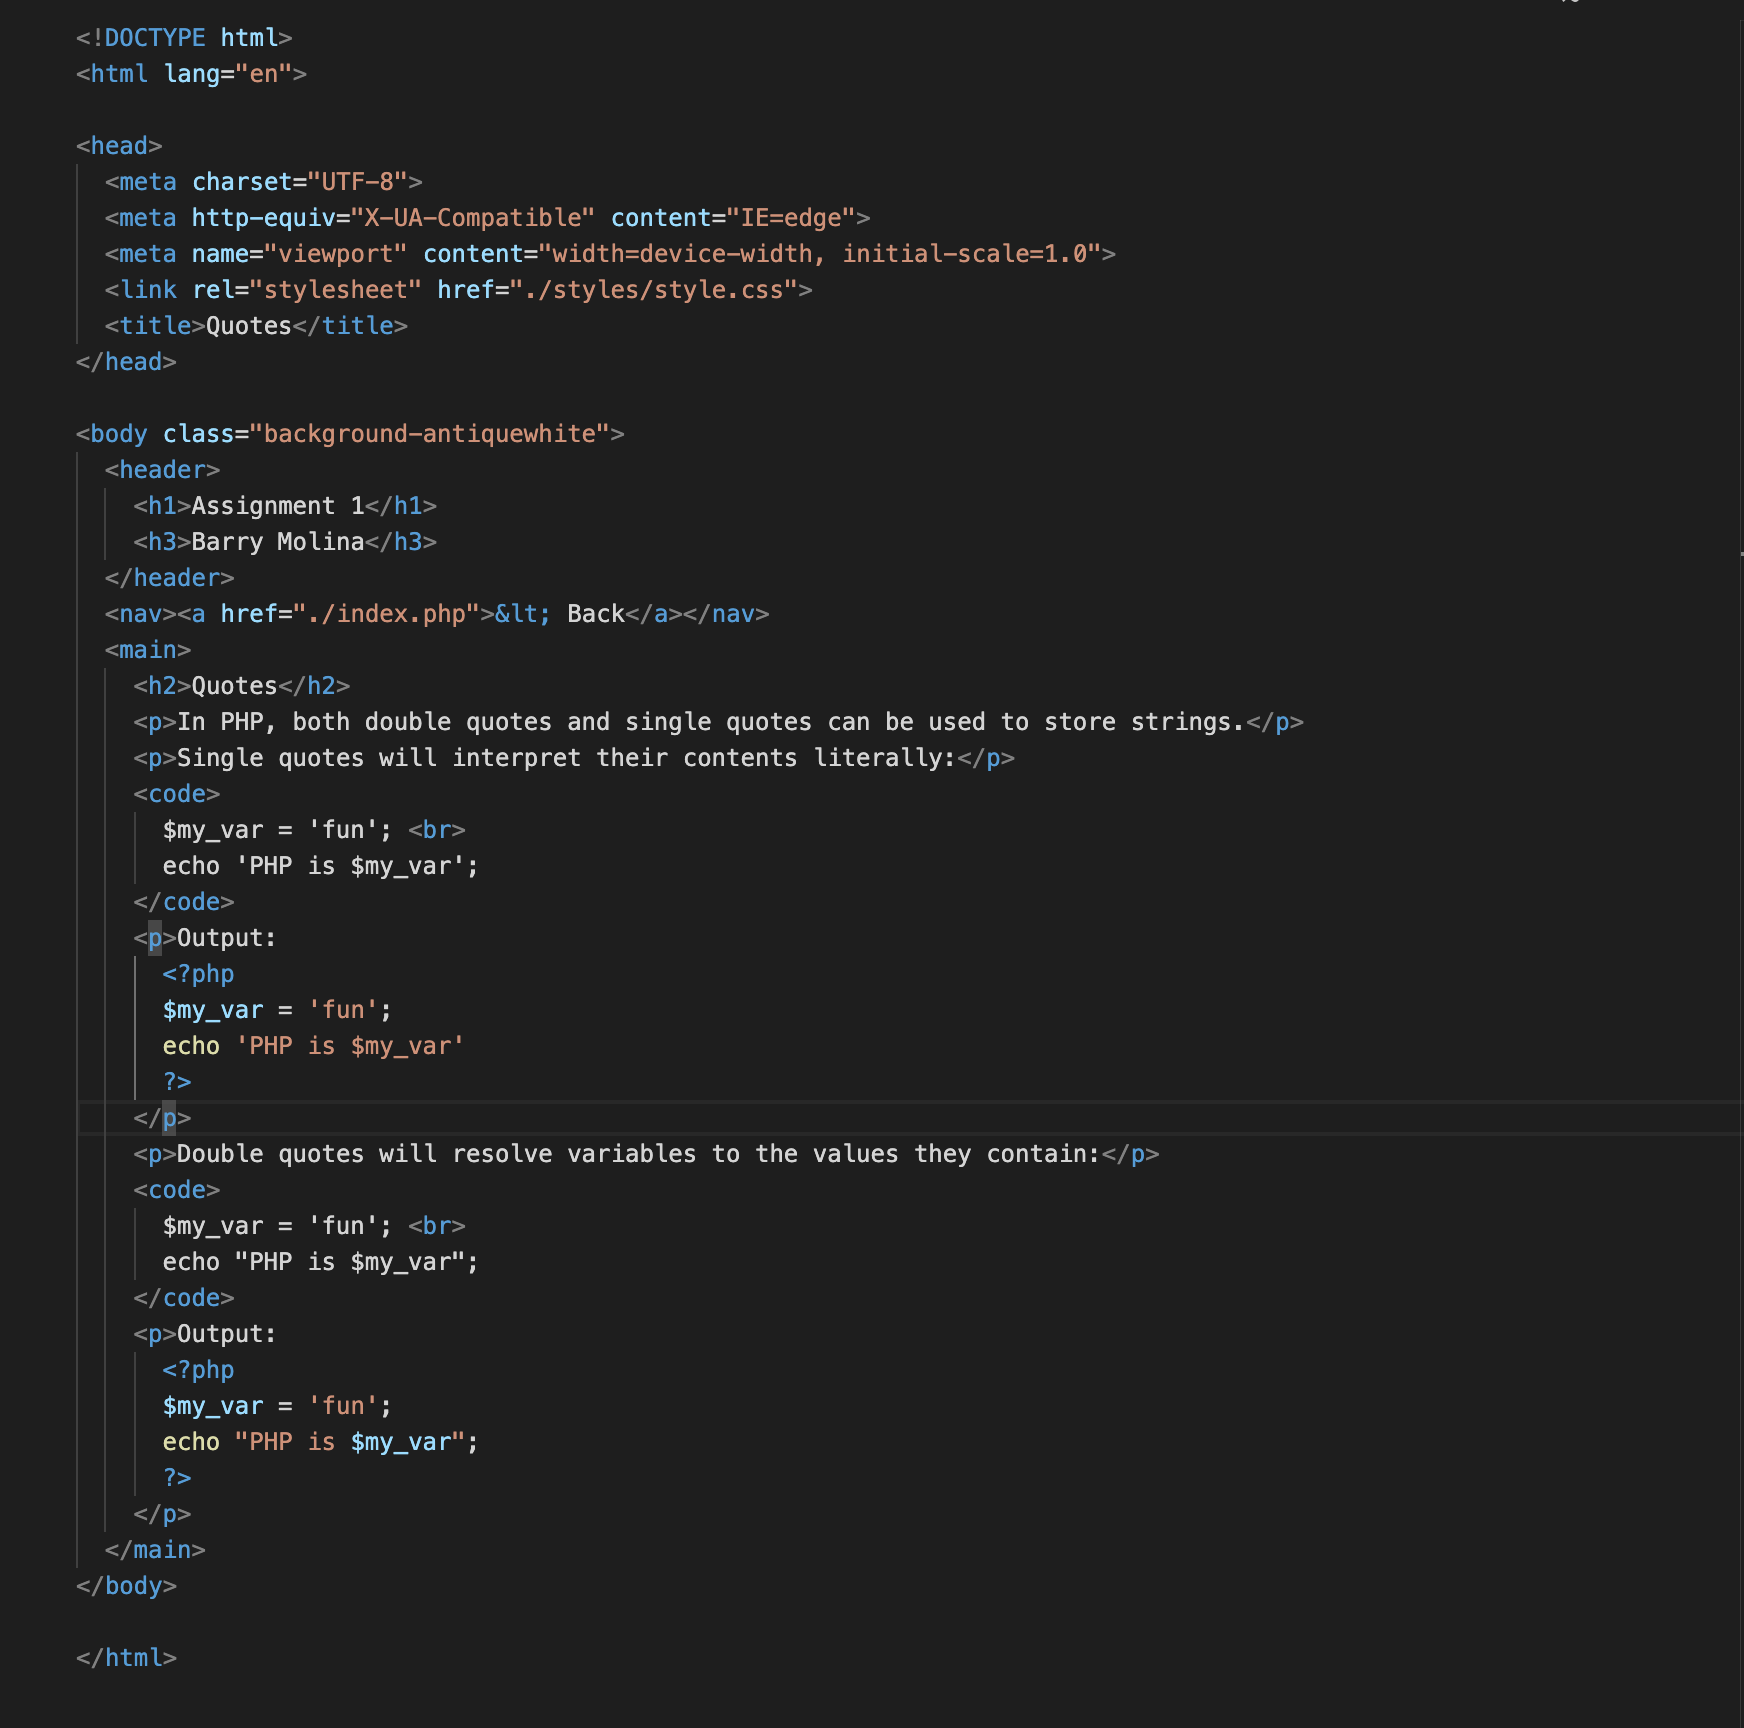
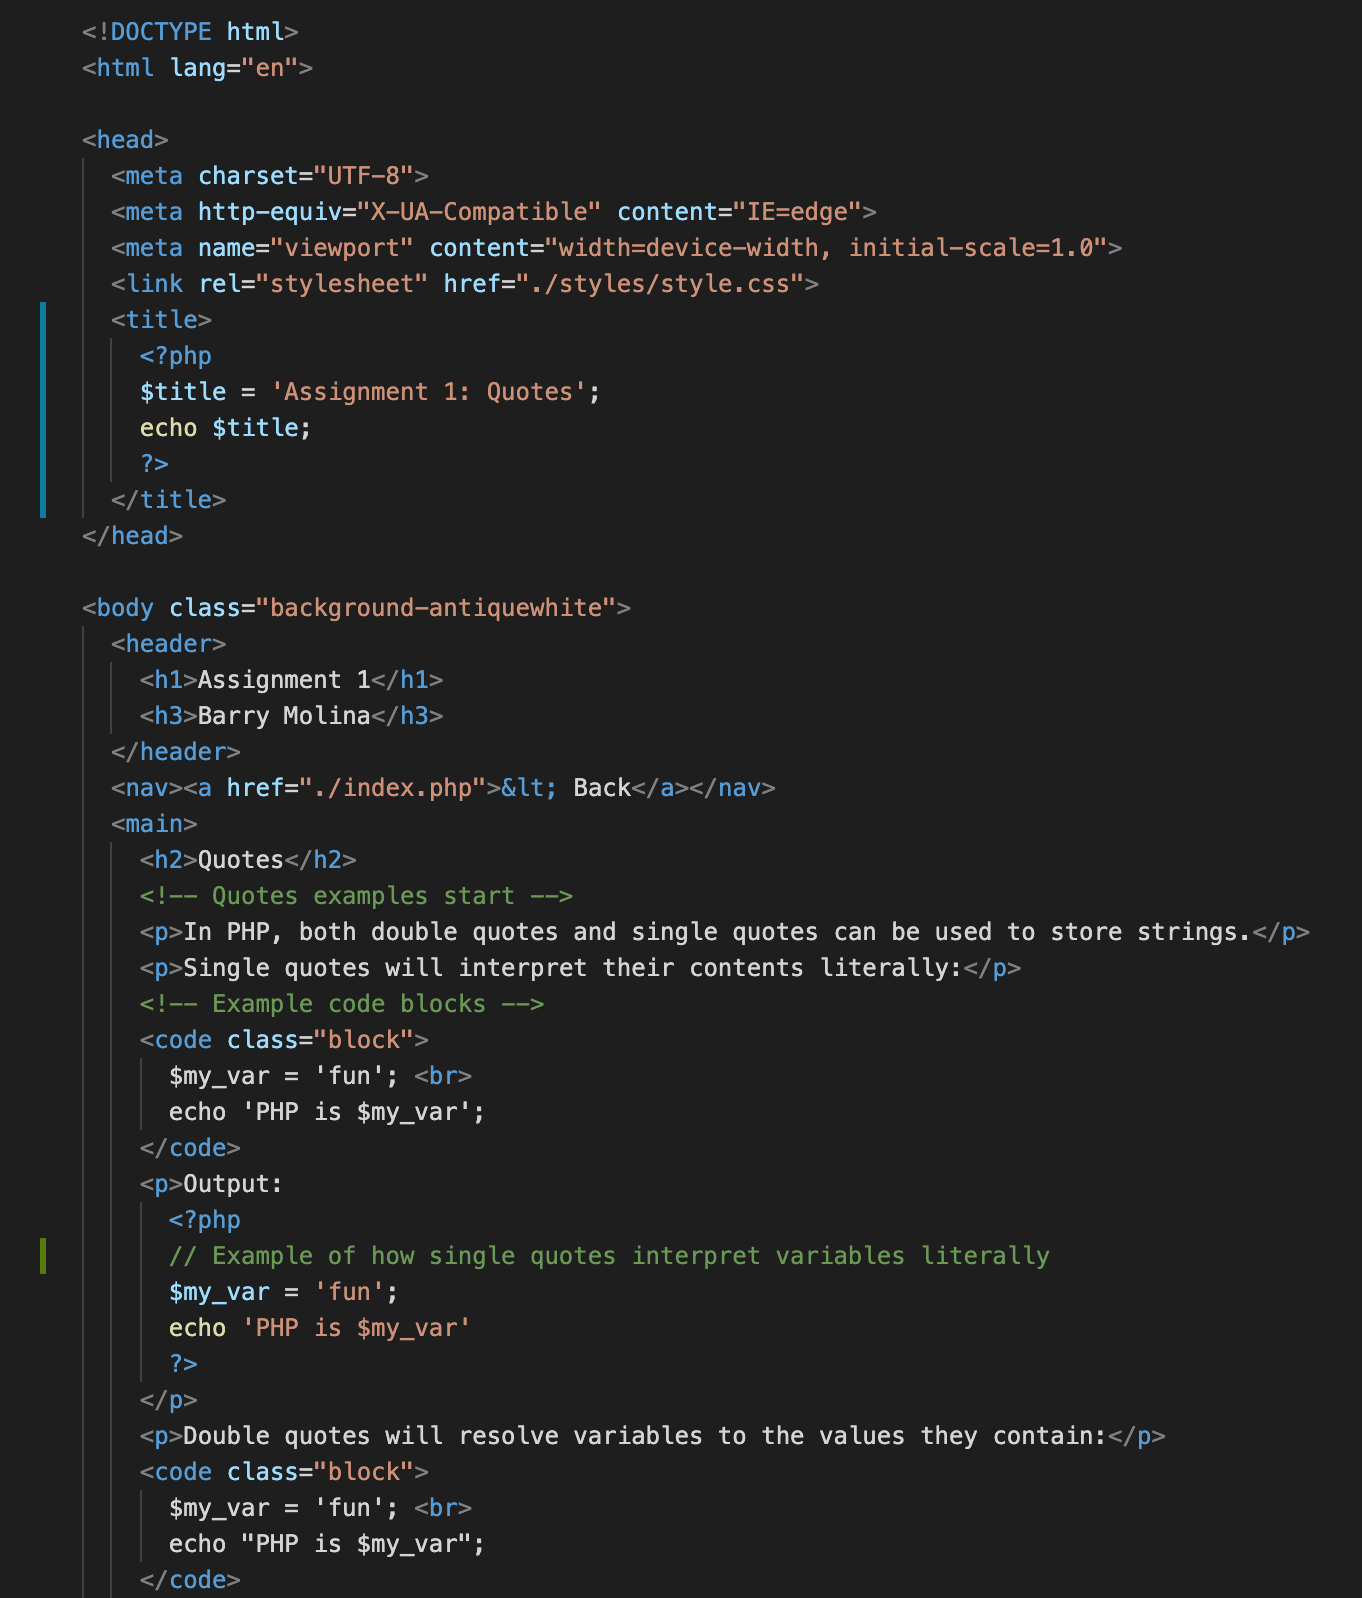
finished

diff --git a/assignment1/conditions.php b/assignment1/conditions.php
@@ -6,7 +6,12 @@
 	<meta http-equiv="X-UA-Compatible" content="IE=edge">
 	<meta name="viewport" content="width=device-width, initial-scale=1.0">
 	<link rel="stylesheet" href="./styles/style.css">
-	<title>Conditions</title>
+	<title>
+		<?php
+		$title = 'Assignment 1: Conditions';
+		echo $title;
+		?>
+	</title>
 </head>
 
 <body class="background-antiquewhite">
@@ -17,21 +22,27 @@
 	<nav><a href="./index.php">&lt; Back</a></nav>
 	<main>
 		<h2>Conditions</h2>
-		<p>Conditons are how logic is expressed in PHP. They make use of logical operators to create expressions whose computed value determines whether or not a section of code is run.</p>
+		<p>Conditons are how logic is expressed in PHP. They make use of logical operators
+			to create expressions whose computed value determines whether or not a section of code is run.</p>
 		<p>The simplest condition is a single <code>if</code> statement:</p>
+		<!-- Formatted code example for simple if statment -->
 		<pre><code class="block">$should_run_code = true;
 
 if ($should_run_code) {
   echo 'Code is running.';
 }</code></pre>
 		<p>Output:</p>
+		<!-- Server PHP code -->
 		<?php
+		// If statment example 1: simple if statement
 		$should_run_code = true;
+		// Code runs if $should_code_run evaluates to true
 		if ($should_run_code) {
 			echo 'Code is running.';
 		}
 		?>
-		<p><code>if</code> statements can optionally include elseif and else clauses.</p>
+		<p><code>if</code> statements can optionally include elseif and else clauses:</p>
+		<!-- If, elseif, else example -->
 		<pre><code class="block">$running_time = 8;
 
 if ($running_time > 12) {
@@ -47,7 +58,10 @@ if ($running_time > 12) {
 }</code></pre>
 		<p>Output:</p>
 		<?php
+		// If statment example 2: if, elseif, else 
+		// Initialize running time variable
 		$running_time = 8;
+		// Expanded if statement that includes elseif and else clauses
 		if ($running_time > 12) {
 			echo 'You must be new.';
 		} elseif ($running_time > 9) {
@@ -57,10 +71,14 @@ if ($running_time > 12) {
 		} elseif ($running_time > 4) {
 			echo 'You must be an elite marathon runner.';
 		} else {
+			// running time is less than 4 minutes
 			echo 'You\'re joking.';
 		}
 		?>
-		<p>Sometimes, many <code>elseif</code> clauses can be expressed more sucinctly using the <code>switch</code> statement</p>
+		<p>Sometimes, many <code>elseif</code> clauses can be expressed more succinctly using the
+			<code>switch</code> statement:
+		</p>
+		<!-- Formatted code example of switch statement -->
 		<pre><code class="block">$door_choice = 3;
 
 switch ($door_choice) {
@@ -76,8 +94,11 @@ switch ($door_choice) {
 }
 </code></pre>
 		<p>Output:</p>
+		<!-- PHP code for switch statment example -->
 		<?php
+		// Set door choice variable
 		$door_choice = 3;
+		// Evaluate door choice and take one of three routes depending on its value
 		switch ($door_choice) {
 			case 1:
 				echo 'Wrong door.';
@@ -91,9 +112,12 @@ switch ($door_choice) {
 		}
 		?>
 	</main>
-	<!-- <figure>
+	<figure>
 		<img src="./images/conditions.png" alt="conditions.php source code screenshot" />
-	</figure> -->
+	</figure>
+	<figure>
+		<img src="./images/conditions2.png" alt="conditions.php source code screenshot" />
+	</figure>
 </body>
 
 </html>

diff --git a/assignment1/form.php b/assignment1/form.php
@@ -6,7 +6,12 @@
 	<meta http-equiv="X-UA-Compatible" content="IE=edge">
 	<meta name="viewport" content="width=device-width, initial-scale=1.0">
 	<link rel="stylesheet" href="./styles/style.css">
-	<title>Form</title>
+	<title>
+		<?php
+		$title = 'Assignment 1: Form';
+		echo $title;
+		?>
+	</title>
 </head>
 
 <body class="background-antiquewhite">
@@ -17,15 +22,20 @@
 	<nav><a href="./index.php">&lt; Back</a></nav>
 	<main>
 		<h2>Form</h2>
+		<!-- Code for survey form -->
+		<!-- Form submits data to google.com -->
 		<form action="https://www.google.com" method="post">
 			<fieldset>
 				<legend>Please take a moment to complete our survery</legend>
+				<!-- Name text inputs -->
 				<label for="first-name">First Name:</label>
 				<input type="text" name="first-name" value="John">
 				<label for="last-name">Last Name:</label>
 				<input type="text" name="last-name" value="James"><br><br>
+				<!-- Email text input -->
 				<label for="email">Email:</label>
 				<input type="text" name="email" value="JohnJames@JimmyJohns.org"><br><br>
+				<!-- Rating dropdown -->
 				<label for="rating">How would you rate your experience?</label>
 				<select name="rating" id="rating">
 					<option value="10">10</option>
@@ -40,12 +50,14 @@
 					<option value="1">1</option>
 				</select>
 				<p>Do you see yourself returning in the future?</p>
+				<!-- Radio buttons -->
 				<input type="radio" id="radio-return-true" name="return" value="true" checked>
 				<label for="radio-return-true">Yes</label>
 				<input type="radio" id="radio-return-false" name="return" value="false">
 				<label for="radio-return-false">No</label>
 
 				<p>What was your favorite part?</p>
+				<!-- Checkboxes -->
 				<input type="checkbox" id="checkbox-hospitality" name="hospitality" value="hospitality" checked>
 				<label for="checkbox-hospitality">The hospitality</label><br>
 				<input type="checkbox" id="checkbox-people" name="people" value="people" checked>
@@ -54,15 +66,24 @@
 				<label for="checkbox-atmosphere">The vibe</label><br>
 				<input type="checkbox" id="checkbox-price" name="price" value="price" checked>
 				<label for="checkbox-price">The price</label><br><br>
-				<label for="textarea-commments">Please leave any additional comments below</label><br><br>
-				<textarea id="textarea-comments" name="comments" rows="10" cols="60">What an amazing experience. I had so much fun.</textarea><br><br>
+				<label for="textarea-commments">
+					Please leave any additional comments below
+				</label><br><br>
+				<!-- Textarea -->
+				<textarea id="textarea-comments" name="comments" rows="10" cols="60">
+					What an amazing experience. I had so much fun.
+				</textarea><br><br>
+				<!-- Submit button -->
 				<input type="submit" value="Submit">
 			</fieldset>
 		</form>
 	</main>
-	<!-- <figure>
+	<figure>
 		<img src="./images/form.png" alt="form.php source code screenshot" />
-	</figure> -->
+	</figure>
+	<figure>
+		<img src="./images/form2.png" alt="form.php source code screenshot" />
+	</figure>
 </body>
 
 </html>

diff --git a/assignment1/functions.php b/assignment1/functions.php
@@ -6,7 +6,12 @@
 	<meta http-equiv="X-UA-Compatible" content="IE=edge">
 	<meta name="viewport" content="width=device-width, initial-scale=1.0">
 	<link rel="stylesheet" href="./styles/style.css">
-	<title>Functions</title>
+	<title>
+		<?php
+		$title = 'Assignment 1: Functions';
+		echo $title;
+		?>
+	</title>
 </head>
 
 <body class="background-antiquewhite">
@@ -18,9 +23,9 @@
 	<main>
 		<!-- Functions intro -->
 		<h2>Functions</h2>
-		<p>Functions are reusable chunks of code that can take input and produce output</p>
-		<p>They allow you to tackle complex problems using functional decomposition</p>
-		<p>PHP has many built-in functions. For example, <code>str_repeat()</code>repeats a string a certain number of times</p>
+		<p>Functions are reusable chunks of code that can take input and produce output.</p>
+		<p>They allow you to tackle complex problems using functional decomposition.</p>
+		<p>PHP has many built-in functions. For example, <code>str_repeat()</code>repeats a string a certain number of times.</p>
 		<!-- Code example of using a built-in function -->
 		<pre><code class="block">$laugh = 'ha';
 $funny = str_repeat($laugh, 2);
@@ -63,7 +68,7 @@ make_me_laugh();</code></pre>
 			echo '<br><br>';
 			echo 'A stick.';
 		}
-		// Call make_me_laugh function
+		// Demonstration of user-defined function
 		make_me_laugh();
 		?>
 	</main>

diff --git a/assignment1/constant.php b/assignment1/constant.php
@@ -6,7 +6,12 @@
 	<meta http-equiv="X-UA-Compatible" content="IE=edge">
 	<meta name="viewport" content="width=device-width, initial-scale=1.0">
 	<link rel="stylesheet" href="./styles/style.css">
-	<title>Constant</title>
+	<title>
+		<?php
+		$title = 'Assignment 1: Constants';
+		echo $title;
+		?>
+	</title>
 </head>
 
 <body class="background-antiquewhite">
@@ -18,8 +23,8 @@
 	<main>
 		<h2>Constants</h2>
 		<!-- Constants intro text -->
-		<p>Constants are variables that cannot be changed once they are defined</p>
-		<p>Unlike normal variables, constants are global in scope and don't use the dollar sign</p>
+		<p>Constants are variables that cannot be changed once they are defined.</p>
+		<p>Unlike normal variables, constants are global in scope and don't use the dollar sign.</p>
 		<!-- Code example using the <pre> tag to preserve formatting -->
 		<pre><code class="block">define('APPLES', 2056);
 define('APPLE_PICKERS', 8);
@@ -29,7 +34,7 @@ echo 'That\'s ' . APPLES / APPLE_PICKERS . ' apples per person.';</code></pre>
 		<p>Output:</p>
 		<!-- PHP code run on server -->
 		<?php
-		// Define two constants
+		// Example using two constants
 		define('APPLES', 2056);
 		define('APPLE_PICKERS', 8);
 		// Echo out constants

diff --git a/assignment1/quotes.php b/assignment1/quotes.php
@@ -6,7 +6,12 @@
 	<meta http-equiv="X-UA-Compatible" content="IE=edge">
 	<meta name="viewport" content="width=device-width, initial-scale=1.0">
 	<link rel="stylesheet" href="./styles/style.css">
-	<title>Quotes</title>
+	<title>
+		<?php
+		$title = 'Assignment 1: Quotes';
+		echo $title;
+		?>
+	</title>
 </head>
 
 <body class="background-antiquewhite">
@@ -27,6 +32,7 @@
 		</code>
 		<p>Output:
 			<?php
+			// Example of how single quotes interpret variables literally
 			$my_var = 'fun';
 			echo 'PHP is $my_var'
 			?>
@@ -38,7 +44,7 @@
 		</code>
 		<p>Output:
 			<?php
-			// PHP example of how double quotes can be used to interpret variables
+			// Example of how double quotes convert variables to the values they contain
 			$my_var = 'fun';
 			// This will output the string 'PHP is fun' 
 			echo "PHP is $my_var";
@@ -47,6 +53,9 @@
 	</main>
 	<figure>
 		<img src="./images/quotes.png" alt="quotes.php source code screenshot" />
+	</figure>
+	<figure>
+		<img src="./images/quotes2.png" alt="quotes.php source code screenshot 2" />
 	</figure>
 </body>
 

diff --git a/assignment1/predefined.php b/assignment1/predefined.php
@@ -6,7 +6,12 @@
 	<meta http-equiv="X-UA-Compatible" content="IE=edge">
 	<meta name="viewport" content="width=device-width, initial-scale=1.0">
 	<link rel="stylesheet" href="./styles/style.css">
-	<title>Predefined</title>
+	<title>
+		<?php
+		$title = 'Assignment 1: Predefined';
+		echo $title;
+		?>
+	</title>
 </head>
 
 <body class="background-antiquewhite">
@@ -29,7 +34,7 @@ echo "The server's IP address is $server_addr";
 echo "Your IP address is $remote_addr";</code></pre>
 		<p>Output:</p>
 		<?php
-		// Store values in new variables
+		// Store values of $_SERVER predefined variables 
 		$server_addr = $_SERVER['SERVER_ADDR'];
 		$server_name = $_SERVER['SERVER_NAME'];
 		$remote_addr = $_SERVER['REMOTE_ADDR'];

diff --git a/assignment1/escape.php b/assignment1/escape.php
@@ -6,7 +6,12 @@
 	<meta http-equiv="X-UA-Compatible" content="IE=edge">
 	<meta name="viewport" content="width=device-width, initial-scale=1.0">
 	<link rel="stylesheet" href="./styles/style.css">
-	<title>Escape</title>
+	<title>
+		<?php
+		$title = 'Assignment 1: Escape';
+		echo $title;
+		?>
+	</title>
 </head>
 
 <body class="background-antiquewhite">
@@ -28,7 +33,7 @@
 		<p>Result:</p>
 		<!-- Actual PHP code run on server -->
 		<?php
-		// This is run on the server
+		// PHP escape slash code example
 		echo 'This is Barry\'s single quoted string';
 		?>
 	</main>

diff --git a/assignment1/phpinfo.php b/assignment1/phpinfo.php
@@ -1,1 +1,24 @@
-<?php phpinfo();
+<!DOCTYPE html>
+<html lang="en">
+
+<head>
+	<meta charset="UTF-8">
+	<meta http-equiv="X-UA-Compatible" content="IE=edge">
+	<meta name="viewport" content="width=device-width, initial-scale=1.0">
+	<title>
+		<?php
+		$title = 'PHP Info Page';
+		echo $title;
+		?>
+	</title>
+</head>
+
+<body>
+	<?php
+	// This function prints out server and running evironment information 
+	phpinfo();
+	?>
+
+</body>
+
+</html>

diff --git a/assignment1/index.php b/assignment1/index.php
@@ -5,7 +5,12 @@
 	<meta charset="UTF-8">
 	<meta http-equiv="X-UA-Compatible" content="IE=edge">
 	<meta name="viewport" content="width=device-width, initial-scale=1.0">
-	<title>Molina INFOST 440 Assignment 1</title>
+	<title>
+		<?php
+		$title = 'Molina INFOST 440 Assignment 1';
+		echo $title;
+		?>
+	</title>
 	<link rel="stylesheet" href="./styles/style.css">
 </head>
 

diff --git a/assignment1/math.php b/assignment1/math.php
@@ -6,7 +6,12 @@
 	<meta http-equiv="X-UA-Compatible" content="IE=edge">
 	<meta name="viewport" content="width=device-width, initial-scale=1.0">
 	<link rel="stylesheet" href="./styles/style.css">
-	<title>Math</title>
+	<title>
+		<?php
+		$title = 'Assignment 1: Math';
+		echo $title;
+		?>
+	</title>
 </head>
 
 <body class="background-antiquewhite">
